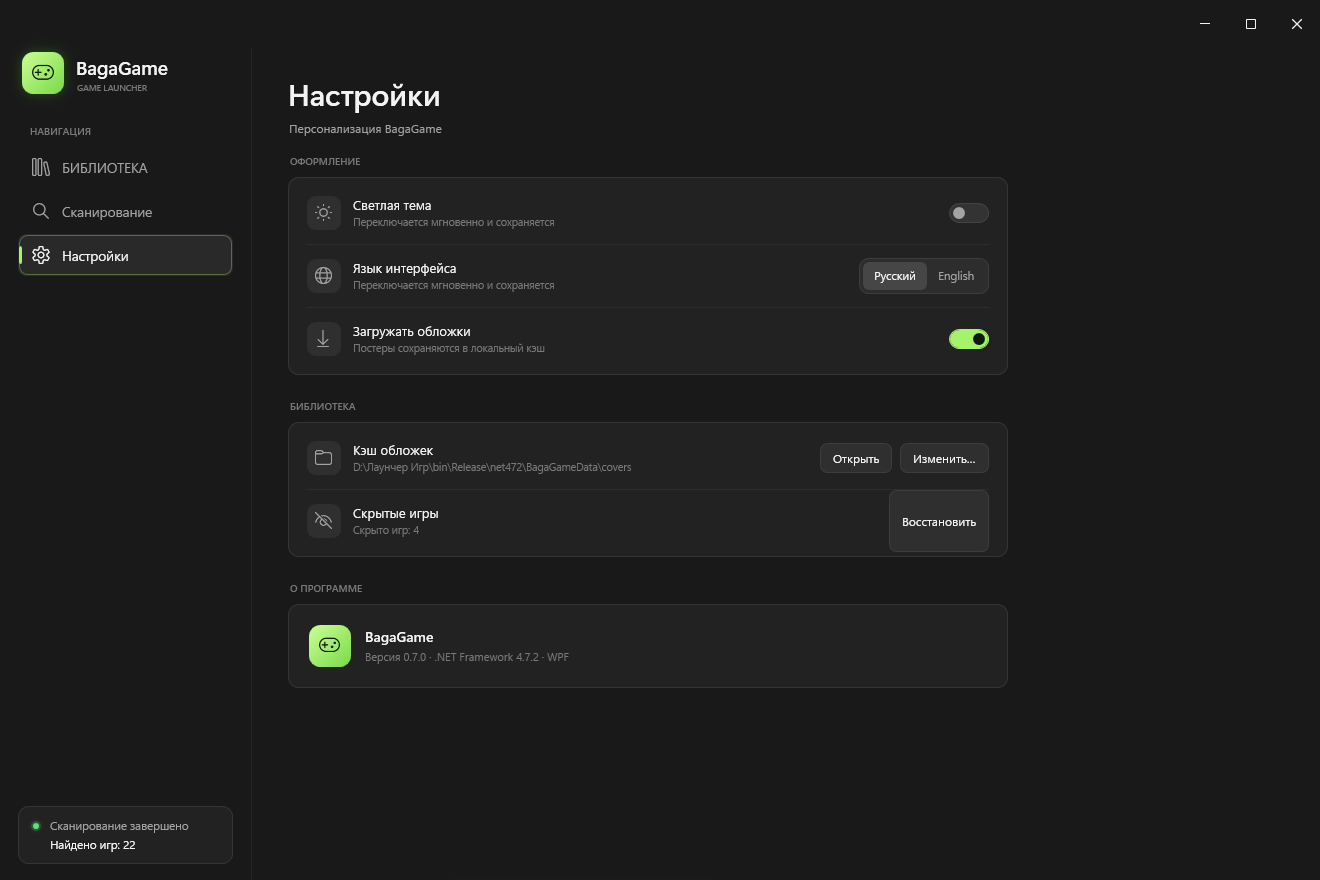
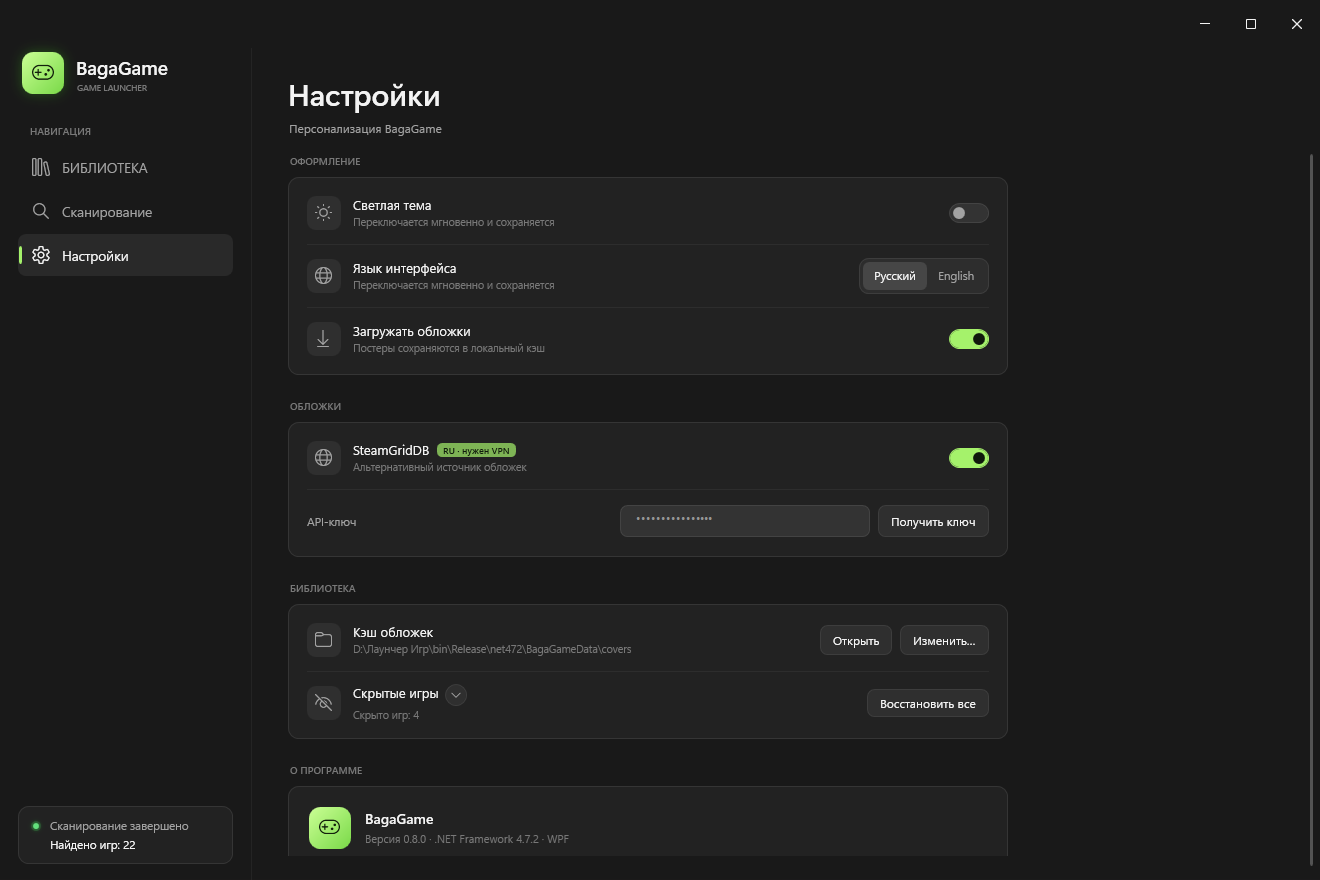
Release 0.8.0: cover update, docs and screenshots

diff --git a/README.ru.md b/README.ru.md
@@ -10,7 +10,7 @@
 
 ## 📥 Установка
 
-1. Откройте раздел **[Releases](https://github.com/bagabeer/BagaGame-Launcher/releases)** и скачайте архив последней версии (`v0.7.0`).
+1. Откройте раздел **[Releases](https://github.com/bagabeer/BagaGame-Launcher/releases)** и скачайте архив последней версии (`v0.8.0`).
 2. Распакуйте архив в любую папку, доступную для записи (например, `D:\BagaGame`).
 3. Запустите **`BagaGame.exe`**.
 
@@ -40,6 +40,10 @@
 |---|---|
 | <img src="docs/screenshots/context-menu.png" alt="Контекстное меню карточки" width="100%"> | <img src="docs/screenshots/cover-picker.png" alt="Выбор обложки" width="100%"> |
 
+| Добавление игры | Кадрирование обложки |
+|---|---|
+| <img src="docs/screenshots/add-game.png" alt="Диалог добавления игры" width="100%"> | <img src="docs/screenshots/cover-crop.png" alt="Кадрирование обложки" width="100%"> |
+
 ---
 
 ## ✨ Возможности
@@ -66,6 +70,7 @@
 ```text
 <папка с BagaGame.exe>\BagaGameData\library.json   — библиотека, настройки, время, скрытые игры
 <папка с BagaGame.exe>\BagaGameData\covers\        — кэш обложек (<AppID>.jpg) и storeids.json
+<папка с BagaGame.exe>\BagaGameData\covers-custom\ — обложки, выбранные пользователем (600×900)
 ```
 
 Если папка рядом с `.exe` недоступна для записи, используется `%LOCALAPPDATA%\BagaGame`.
@@ -78,6 +83,8 @@
 | `ManualGames` | Игры, добавленные вручную |
 | `Genres` | Кэш жанров (хранятся канонические английские названия) |
 | `Playtime` | Наигранное время в секундах |
+| `CustomCovers` | Пользовательские обложки в `covers-custom` |
+| `UseSteamGridDb`, `SteamGridDbApiKey` | Источник SteamGridDB и API-ключ |
 | `Theme`, `Language`, `GridView`, `Grouping`, `DownloadCovers`, `CacheDirectory` | Настройки интерфейса |
 
 ---
@@ -117,7 +124,41 @@ Compat/                             — полифиллы для совреме
 
 ## 📝 Changelog
 
-### Версия 0.7.0 (текущая)
+### Версия 0.8.0 (текущая) — обновление обложек
+
+**Выбор обложки**
+* Правый клик по карточке → **«Сменить обложку»**.
+* До 36 обложек сообщества из SteamGridDB для выбранной игры.
+* Можно загрузить свою картинку: JPG, PNG или BMP до 12 МБ.
+* Картинку можно двигать мышью и масштабировать колесом в рамке 2:3.
+* Любая обложка сохраняется как постер 600×900, поэтому карточки не разъезжаются.
+* **«Вернуть стандартную»** убирает свою обложку и возвращает автоматическую.
+* Выбор сохраняется после перезапуска.
+
+**SteamGridDB**
+* Новый раздел в настройках: включение, поле API-ключа и кнопка **«Получить ключ»**.
+* Показываются обложки только найденной игры, без чужих игр.
+* Зелёная плашка **«RU · нужен VPN»** напоминает, что в России SteamGridDB может требовать VPN.
+
+**Библиотека и карточки**
+* У игры без постера в правом верхнем углу появляется подсказка **«Добавить обложку»**; фон проявляется при наведении.
+* Скрытые игры можно восстанавливать по одной, список раскрывается маленькой стрелкой.
+* У скрытых игр показывается папка или магазин, как в основном списке.
+* Окно выбора обложки стало компактным: четыре обложки в ряд, без пустоты справа.
+* На экране кадрирования один понятный заголовок и настоящая рамка 2:3.
+* Убраны лишние подписи и зелёное выделение текста при открытии окна.
+
+**Внешний вид**
+* Новая иконка приложения — зелёный геймпад.
+* Убраны светящаяся рамка окна и лишняя обводка диалогов.
+* Мелкие правки отступов, размеров кнопок и текста.
+
+**Исправления**
+* SteamGridDB больше не подмешивает обложки других игр.
+* Обложки корректно сохраняются и остаются после перезапуска.
+* Кадрирование больше не обрезается и всегда сохраняет пропорции 2:3.
+
+### Версия 0.7.0
 
 **Размер и платформа**
 * Переход с .NET 8 на **.NET Framework 4.7.2** — он уже есть в Windows 10 1803+ и Windows 11, поэтому лаунчер запускается без установки рантайма.

diff --git a/README.md b/README.md
@@ -10,7 +10,7 @@ The launcher is written in **C# / WPF** on **.NET Framework 4.7.2** and uses no 
 
 ## 📥 Installation
 
-1. Open the **[Releases](https://github.com/bagabeer/BagaGame-Launcher/releases)** page and download the latest archive (`v0.7.0`).
+1. Open the **[Releases](https://github.com/bagabeer/BagaGame-Launcher/releases)** page and download the latest archive (`v0.8.0`).
 2. Extract it to any writable folder (for example, `D:\BagaGame`).
 3. Run **`BagaGame.exe`**.
 
@@ -40,6 +40,10 @@ There is no installer — the app works right after unpacking. All data (library
 |---|---|
 | <img src="docs/screenshots/context-menu.png" alt="Game card context menu" width="100%"> | <img src="docs/screenshots/cover-picker.png" alt="Cover picker" width="100%"> |
 
+| Add game | Cover crop |
+|---|---|
+| <img src="docs/screenshots/add-game.png" alt="Add game dialog" width="100%"> | <img src="docs/screenshots/cover-crop.png" alt="Cover crop editor" width="100%"> |
+
 ---
 
 ## ✨ Features
@@ -66,6 +70,7 @@ There is no installer — the app works right after unpacking. All data (library
 ```text
 <folder with BagaGame.exe>\BagaGameData\library.json   — library, settings, playtime, hidden games
 <folder with BagaGame.exe>\BagaGameData\covers\        — cover cache (<AppID>.jpg) and storeids.json
+<folder with BagaGame.exe>\BagaGameData\covers-custom\ — user-picked 600×900 posters
 ```
 
 If the folder next to the `.exe` is not writable, `%LOCALAPPDATA%\BagaGame` is used instead.
@@ -78,6 +83,8 @@ If the folder next to the `.exe` is not writable, `%LOCALAPPDATA%\BagaGame` is u
 | `ManualGames` | Manually added games |
 | `Genres` | Genre cache (canonical English names are stored) |
 | `Playtime` | Played time in seconds |
+| `CustomCovers` | User-picked cover files in `covers-custom` |
+| `UseSteamGridDb`, `SteamGridDbApiKey` | Optional SteamGridDB source and API key |
 | `Theme`, `Language`, `GridView`, `Grouping`, `DownloadCovers`, `CacheDirectory` | Interface preferences |
 
 ---
@@ -117,7 +124,41 @@ Compat/                             — polyfills for modern C# on net472
 
 ## 📝 Changelog
 
-### Version 0.7.0 (current)
+### Version 0.8.0 (current) — cover update
+
+**Cover picker**
+* Right-click a card → **Change cover**.
+* Browse up to 36 community covers from SteamGridDB for the selected game.
+* Upload your own image: JPG, PNG or BMP, up to 12 MB.
+* Move and zoom the image inside a fixed 2:3 frame.
+* Every cover is saved as a 600×900 poster, so cards always line up.
+* **Restore default** removes your cover and brings back the automatic one.
+* Your choice survives a restart.
+
+**SteamGridDB**
+* New section in Settings: enable it, paste an API key and use the **Get a key** button.
+* Only the matched game is shown — no covers from other games.
+* A green **RU · VPN required** note warns that SteamGridDB may need a VPN in Russia.
+
+**Library and cards**
+* Games without a poster show a small **Add cover** hint in the top-right corner; the background appears on hover.
+* Hidden games can be restored one by one; the list expands with a small arrow.
+* Hidden entries show their folder or store, like the main library list.
+* The cover window is compact: four covers per row, no empty space on the right.
+* The crop screen has one clear heading and a true 2:3 frame.
+* Removed extra labels and the green text selection when the window opens.
+
+**Look and feel**
+* New green gamepad application icon.
+* Removed the glowing window border and the extra outline around dialogs.
+* Small fixes to spacing, button sizes and text.
+
+**Fixes**
+* SteamGridDB no longer mixes in artwork from other games.
+* Covers save correctly and stay after a restart.
+* Cropping no longer cuts the frame and always keeps 2:3.
+
+### Version 0.7.0
 
 **Size and platform**
 * Retargeted from .NET 8 to **.NET Framework 4.7.2**, which ships with Windows 10 1803+ and Windows 11, so the launcher starts without installing a runtime.
